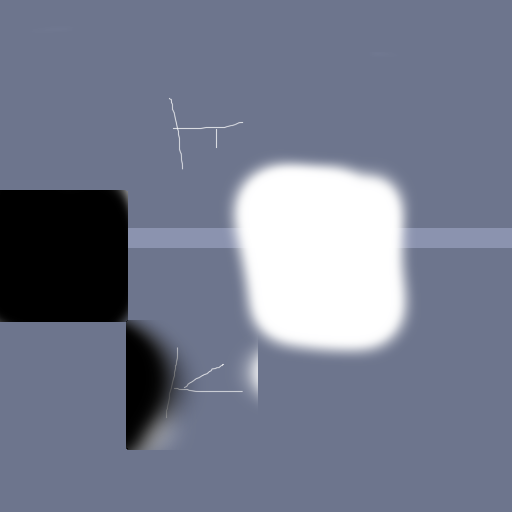
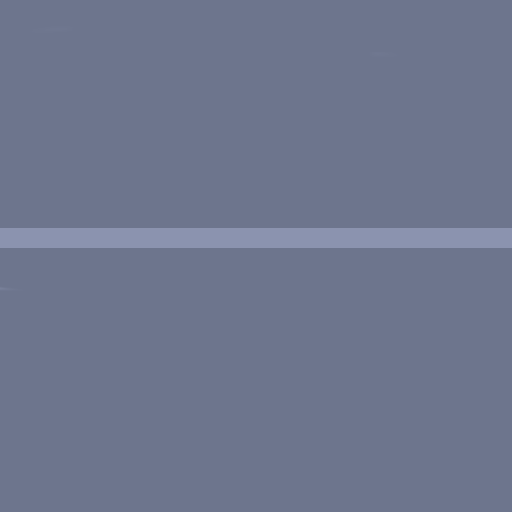
レベルエディタのサンプル　完成

diff --git a/Scenes/State/GamePlayState.cpp b/Scenes/State/GamePlayState.cpp
@@ -14,7 +14,7 @@ void GamePlayState::Initialize()
 	Editer::GetInstance()->IsEnable(true);
 	objectManager = ObjectManager::GetInstance();
 	//objectManager->LordFile("Editer");
-	objectManager->LordBlenderScene("tools/test");
+	objectManager->LordBlenderScene("tools/levelEditor");
 
 	DirectX_ = DirectXCommon::GetInstance();
 	collisionManager = std::make_unique<CollisionManager>();
